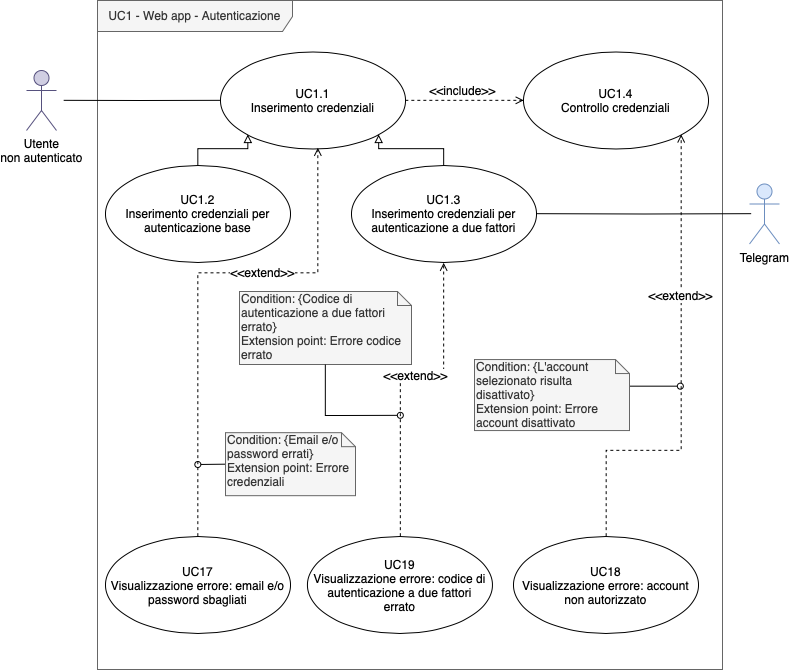
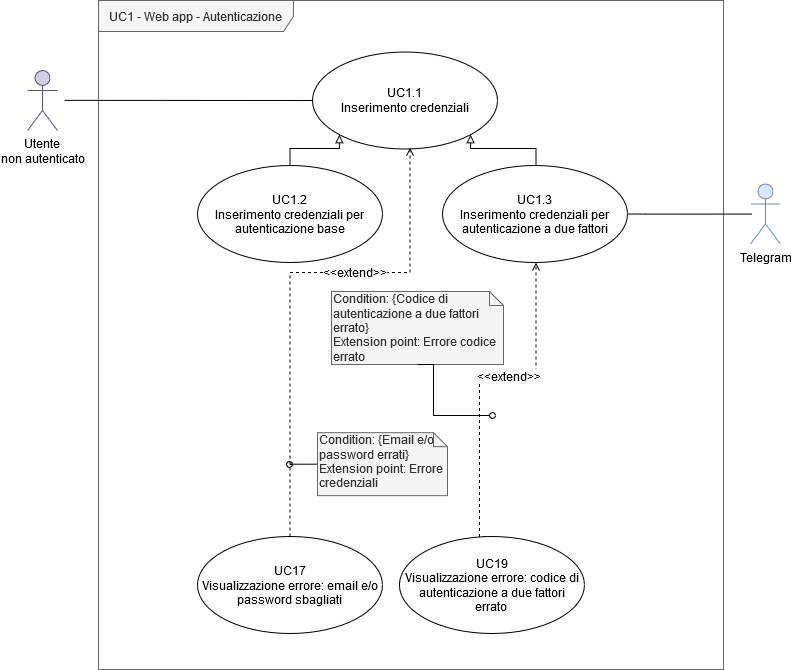
Fix casi d'uso
Sistemati alcuni errori di sintassi e grammaticali.
Rimosso ogni riferimento a UC 1.4 e riadattata l'estensione per UC 18.

diff --git a/esterni/analisi_requisiti/res/sections/Sez4-ClassificazioneRequisiti/ClassificazioneRequisiti.tex b/esterni/analisi_requisiti/res/sections/Sez4-ClassificazioneRequisiti/ClassificazioneRequisiti.tex
@@ -36,110 +36,110 @@ In questa parte, vengono riportati i requisiti del progetto, classificati per ti
         \endfoot
         \endlastfoot
 		% autenticazione
-		\req{A}{F}{1} 		& L'utente deve potersi autenticare per accedere alla web app & UC1 \autism
-		\sreq{A}{F}{1.1} 	& L'utente deve poter usufruire dell'autenticazione a due fattori & UC1.3, UC14, Interna \autism
-		\sreq{A}{F}{1.2} 	& L'utente deve poter ricevere un codice di autenticazione a due fattori tramite \glock{Telegram} & UC1.3.3, Interna, VE\_2020-01-03\_8.3 \autism
-		\req{A}{F}{2} 		& L'utente autenticato deve avere accesso alla web app e deve poter navigare al suo interno & UC1.4 \autism
+		\req{A}{F}{1} 		& L'utente deve potersi autenticare per accedere alla web app & UC 1 \autism
+		\sreq{A}{F}{1.1} 	& L'utente deve poter usufruire dell'autenticazione a due fattori & UC 1.3, UC 14, Interna \autism
+		\sreq{A}{F}{1.2} 	& L'utente deve poter ricevere un codice di autenticazione a due fattori tramite \glock{Telegram} & UC 1.3.3, Interna, VE\_2020-01-03\_8.3 \autism
+		\req{A}{F}{2} 		& L'utente autenticato deve avere accesso alla web app e deve poter navigare al suo interno & UC 1 \autism
 		% dashboard
-		\req{A}{F}{3} 		& L'utente autenticato deve avere accesso a una dashboard & UC2 \autism
-		\sreq{A}{F}{3.1}  	& La dashboard deve mettere a disposizione le informazioni dell'utente autenticato & UC2 \autism
-		\sreq{A}{F}{3.2}  	& La dashboard deve mettere a disposizione i contatti di supporto tecnico & UC2 \autism
-		\sreq{B}{F}{3.3}  	& La dashboard deve mettere a disposizione le statistiche generali del sistema & UC2 \autism
+		\req{A}{F}{3} 		& L'utente autenticato deve avere accesso a una dashboard & UC 2 \autism
+		\sreq{A}{F}{3.1}  	& La dashboard deve mettere a disposizione le informazioni dell'utente autenticato & UC 2 \autism
+		\sreq{A}{F}{3.2}  	& La dashboard deve mettere a disposizione i contatti di supporto tecnico & UC 2 \autism
+		\sreq{B}{F}{3.3}  	& La dashboard deve mettere a disposizione le statistiche generali del sistema & UC 2 \autism
 		% lista dispositivi
-		\req{A}{F}{4} 		& Il membro deve poter visualizzare i dispositivi autorizzati per il suo ente & UC5.1 \autism
-		\req{A}{F}{5} 		& Il moderatore ente deve poter visualizzare i dispositivi autorizzati per il suo ente & UC5.1 \autism
-		\req{A}{F}{6} 		& L'amministratore deve poter visualizzare i dispositivi censiti nel sistema & UC5.1 \autism
+		\req{A}{F}{4} 		& Il membro deve poter visualizzare i dispositivi autorizzati per il suo ente & UC 5.1 \autism
+		\req{A}{F}{5} 		& Il moderatore ente deve poter visualizzare i dispositivi autorizzati per il suo ente & UC 5.1 \autism
+		\req{A}{F}{6} 		& L'amministratore deve poter visualizzare i dispositivi censiti nel sistema & UC 5.1 \autism
 		% impostazioni
-		\req{A}{F}{7}  		& L'utente autenticato deve poter visualizzare le proprie impostazioni account & UC4 \autism
-		\req{A}{F}{8}  		& L'utente autenticato deve poter modificare le proprie impostazioni account & UC4.1, UC4.2 \autism
-		\sreq{A}{F}{8.1}  	& L'utente autenticato deve poter modificare la propria password & UC4.1 \autism
-		\sreq{A}{F}{8.2}  	& L'utente autenticato deve poter modificare la propria email & UC4.2.1 \autism
-		\sreq{A}{F}{8.3}  	& L'utente autenticato deve poter modificare il proprio username \glock{Telegram} & UC4.2.2 \autism
-		\sreq{B}{F}{8.4}  	& L'utente autenticato deve poter attivare l'autenticazione a due fattori tramite \glock{Telegram} & UC4.2.3 \autism
-		\sreq{B}{F}{8.5}  	& L'utente autenticato deve poter disattivare l'autenticazione a due fattori tramite \glock{Telegram} & UC4.2.3 \autism
-		\sreq{B}{F}{8.6}  	& L'utente autenticato deve poter modificare la preferenza di notifica di uno specifico alert, in base a quelli disponibili & UC4.3, VE\_2020-01-10\_9.2 \autism
+		\req{A}{F}{7}  		& L'utente autenticato deve poter visualizzare le proprie impostazioni account & UC 4 \autism
+		\req{A}{F}{8}  		& L'utente autenticato deve poter modificare le proprie impostazioni account & UC 4.1, UC 4.2 \autism
+		\sreq{A}{F}{8.1}  	& L'utente autenticato deve poter modificare la propria password & UC 4.1 \autism
+		\sreq{A}{F}{8.2}  	& L'utente autenticato deve poter modificare la propria email & UC 4.2.1 \autism
+		\sreq{A}{F}{8.3}  	& L'utente autenticato deve poter modificare il proprio username \glock{Telegram} & UC 4.2.2 \autism
+		\sreq{B}{F}{8.4}  	& L'utente autenticato deve poter attivare l'autenticazione a due fattori tramite \glock{Telegram} & UC 4.2.3 \autism
+		\sreq{B}{F}{8.5}  	& L'utente autenticato deve poter disattivare l'autenticazione a due fattori tramite \glock{Telegram} & UC 4.2.3 \autism
+		\sreq{B}{F}{8.6}  	& L'utente autenticato deve poter modificare la preferenza di notifica di uno specifico alert, in base a quelli disponibili & UC 4.3, VE\_2020-01-10\_9.2 \autism
 		% info dispositivi
-		\req{A}{F}{9} 		& Il membro e il moderatore ente devono poter visualizzare la lista dei sensori di un dispositivo abilitati al loro ente & UC5.2 \autism
-		\req{A}{F}{10} 		& L'amministratore deve poter visualizzare la lista completa dei sensori di un qualunque dispositivo censito nel sistema & UC5.8 \autism
-		\req{A}{F}{11}  	& Il membro e il moderatore ente devono poter visualizzare i dati in tempo reale di un sensore abilitato al loro ente & UC5.2 \autism
-		\sreq{B}{F}{11.1}   & Il membro e il moderatore ente possono visualizzare i dati di un sensore tramite un grafico & UC6.2 \autism
-		\req{A}{F}{12} 		& L'amministratore deve poter visualizzare i dati in tempo reale di tutti i sensori appartenenti a un dispositivo censito nel sistema & UC5.2, VE\_2020-01-10\_9.1 \autism
-		\sreq{B}{F}{12.1}   & L'amministratore deve poter visualizzare i dati di un sensore tramite un grafico & UC6.2, VE\_2020-01-10\_9.1 \autism
-		\req{A}{F}{13} 		& L'amministratore deve poter visualizzare a quali enti è stata autorizzata la lettura di un sensore & UC5.2 \autism
-		\req{A}{F}{14} 		& L'amministratore deve poter assegnare a un ente la lettura di un sensore di un qualunque dispositivo censito nel sistema & UC5.6 \autism
-		\req{A}{F}{15} 		& L'amministratore deve poter rimuovere da un ente la lettura di un sensore di un qualunque dispositivo censito nel sistema & UC5.7 \autism
+		\req{A}{F}{9} 		& Il membro e il moderatore ente devono poter visualizzare la lista dei sensori di un dispositivo abilitati al loro ente & UC 5.2 \autism
+		\req{A}{F}{10} 		& L'amministratore deve poter visualizzare la lista completa dei sensori di un qualunque dispositivo censito nel sistema & UC 5.8 \autism
+		\req{A}{F}{11}  	& Il membro e il moderatore ente devono poter visualizzare i dati in tempo reale di un sensore abilitato al loro ente & UC 5.2 \autism
+		\sreq{B}{F}{11.1}   & Il membro e il moderatore ente possono visualizzare i dati di un sensore tramite un grafico & UC 6.2 \autism
+		\req{A}{F}{12} 		& L'amministratore deve poter visualizzare i dati in tempo reale di tutti i sensori appartenenti a un dispositivo censito nel sistema & UC 5.2, VE\_2020-01-10\_9.1 \autism
+		\sreq{B}{F}{12.1}   & L'amministratore deve poter visualizzare i dati di un sensore tramite un grafico & UC 6.2, VE\_2020-01-10\_9.1 \autism
+		\req{A}{F}{13} 		& L'amministratore deve poter visualizzare a quali enti è stata autorizzata la lettura di un sensore & UC 5.2 \autism
+		\req{A}{F}{14} 		& L'amministratore deve poter assegnare a un ente la lettura di un sensore di un qualunque dispositivo censito nel sistema & UC 5.6 \autism
+		\req{A}{F}{15} 		& L'amministratore deve poter rimuovere da un ente la lettura di un sensore di un qualunque dispositivo censito nel sistema & UC 5.7 \autism
 		% lista membri mod
-		\req{A}{F}{16}  	& Un moderatore ente deve poter visualizzare la lista dei membri appartenenti al suo ente & UC7.1 \autism
-		\req{A}{F}{17}  	& Un moderatore ente deve poter visualizzare le informazioni di un membro appartenente al suo ente & UC7.3 \autism
-		\req{B}{F}{18} 		& Un moderatore ente deve poter modificare l'account di un membro appartenente al suo ente & UC7.4 \autism
-		\sreq{B}{F}{18.1}  	& Un moderatore ente deve poter modificare la email di un membro appartenente al suo ente & UC7.4.1 \autism
-		\sreq{B}{F}{18.2}  	& Un moderatore ente deve poter modificare il nome di un membro appartenente al suo ente & UC7.4.2 \autism
-		\sreq{B}{F}{18.3}  	& Un moderatore ente deve poter modificare il cognome di un membro appartenente al suo ente & UC7.4.3 \autism
-		\req{A}{F}{19} 		& Un moderatore ente deve poter rimuovere un membro appartenente al suo ente & UC7.5 \autism
-		\req{A}{F}{20} 		& Un moderatore ente deve poter creare un nuovo account per un nuovo membro che apparterrà solo al suo ente & UC7.2 \autism
+		\req{A}{F}{16}  	& Un moderatore ente deve poter visualizzare la lista dei membri appartenenti al suo ente & UC 7.1 \autism
+		\req{A}{F}{17}  	& Un moderatore ente deve poter visualizzare le informazioni di un membro appartenente al suo ente & UC 7.3 \autism
+		\req{B}{F}{18} 		& Un moderatore ente deve poter modificare l'account di un membro appartenente al suo ente & UC 7.4 \autism
+		\sreq{B}{F}{18.1}  	& Un moderatore ente deve poter modificare la email di un membro appartenente al suo ente & UC 7.4.1 \autism
+		\sreq{B}{F}{18.2}  	& Un moderatore ente deve poter modificare il nome di un membro appartenente al suo ente & UC 7.4.2 \autism
+		\sreq{B}{F}{18.3}  	& Un moderatore ente deve poter modificare il cognome di un membro appartenente al suo ente & UC 7.4.3 \autism
+		\req{A}{F}{19} 		& Un moderatore ente deve poter rimuovere un membro appartenente al suo ente & UC 7.5 \autism
+		\req{A}{F}{20} 		& Un moderatore ente deve poter creare un nuovo account per un nuovo membro che apparterrà solo al suo ente & UC 7.2 \autism
 		% lista membri admin
-		\req{A}{F}{21} 		& Un amministratore deve poter visualizzare la lista degli utenti registrati nel sistema & UC11.1 \autism
-		\req{A}{F}{22} 		& Un amministratore deve poter visualizzare le informazioni di un utente qualunque & UC11.3 \autism
-		\req{A}{F}{23} 		& Un amministratore deve poter disattivare un account di un utente qualunque & UC11.6 \autism
-		\req{B}{F}{24} 		& Un amministratore deve poter modificare le impostazioni di un utente qualunque & UC11.4 \autism
-		\sreq{B}{F}{24.1}	& Un amministratore deve poter modificare la email di un utente qualunque  & UC11.4.1 \autism
-		\sreq{B}{F}{24.2}  	& Un amministratore deve poter modificare il nome di un utente qualunque  & UC11.4.2 \autism
-		\sreq{B}{F}{24.3}  	& Un amministratore deve poter modificare il cognome di un utente qualunque  & UC11.4.3 \autism
-		\sreq{B}{F}{24.4}  	& Un amministratore deve poter modificare il lo username \glock{Telegram} di un utente qualunque & UC11.4.4 \autism
-		\sreq{B}{F}{24.5}  	& Un amministratore deve poter attivare l'autenticazione a due fattori tramite \glock{Telegram} di un utente qualunque & UC11.4.7 \autism
-		\sreq{B}{F}{24.6}  	& Un amministratore deve poter disattivare l'autenticazione a due fattori tramite \glock{Telegram} di un utente qualunque & UC11.4.7 \autism
-		\req{A}{F}{25}  	& Un amministratore deve poter riassegnare un membro o un moderatore ente a ente differente & UC11.4.5 \autism
-		\req{A}{F}{26} 		& Un amministratore deve poter resettare la password a un membro o a un moderatore ente & UC11.5 \autism
-		\req{A}{F}{27} 		& Un amministratore deve poter creare un account per un nuovo membro & UC11.2 \autism
+		\req{A}{F}{21} 		& Un amministratore deve poter visualizzare la lista degli utenti registrati nel sistema & UC 11.1 \autism
+		\req{A}{F}{22} 		& Un amministratore deve poter visualizzare le informazioni di un utente qualunque & UC 11.3 \autism
+		\req{A}{F}{23} 		& Un amministratore deve poter disattivare un account di un utente qualunque & UC 11.6 \autism
+		\req{B}{F}{24} 		& Un amministratore deve poter modificare le impostazioni di un utente qualunque & UC 11.4 \autism
+		\sreq{B}{F}{24.1}	& Un amministratore deve poter modificare la email di un utente qualunque  & UC 11.4.1 \autism
+		\sreq{B}{F}{24.2}  	& Un amministratore deve poter modificare il nome di un utente qualunque  & UC 11.4.2 \autism
+		\sreq{B}{F}{24.3}  	& Un amministratore deve poter modificare il cognome di un utente qualunque  & UC 11.4.3 \autism
+		\sreq{B}{F}{24.4}  	& Un amministratore deve poter modificare il lo username \glock{Telegram} di un utente qualunque & UC 11.4.4 \autism
+		\sreq{B}{F}{24.5}  	& Un amministratore deve poter attivare l'autenticazione a due fattori tramite \glock{Telegram} di un utente qualunque & UC 11.4.7 \autism
+		\sreq{B}{F}{24.6}  	& Un amministratore deve poter disattivare l'autenticazione a due fattori tramite \glock{Telegram} di un utente qualunque & UC 11.4.7 \autism
+		\req{A}{F}{25}  	& Un amministratore deve poter riassegnare un membro o un moderatore ente a ente differente & UC 11.4.5 \autism
+		\req{A}{F}{26} 		& Un amministratore deve poter resettare la password a un membro o a un moderatore ente & UC 11.5 \autism
+		\req{A}{F}{27} 		& Un amministratore deve poter creare un account per un nuovo membro & UC 11.2 \autism
 		% lista alert
-		\req{A}{F}{28} 		& Un moderatore ente deve poter visualizzare la lista degli alert attivi per il suo ente & UC8.1 \autism
-		\req{A}{F}{29} 		& Un moderatore ente deve poter aggiungere un alert di un particolare sensore per il suo ente & UC8.2 \autism
-		\req{A}{F}{30} 		& Un moderatore ente deve poter rimuovere un alert di un particolare sensore per il suo ente & UC8.3 \autism
-		\req{A}{F}{31} 		& Un amministratore deve poter visualizzare la lista degli alert attivi per tutti gli enti & UC12.1 \autism
-		\req{A}{F}{32} 		& Un amministratore deve poter rimuovere un alert di un particolare sensore & UC12.2 \autism
-		\req{A}{F}{33} 		& I membri e i moderatori ente devono poter ricevere notifiche \glock{Telegram} sulla base delle soglie impostate negli alert attivi per il loro ente & UC15.1 \autism
+		\req{A}{F}{28} 		& Un moderatore ente deve poter visualizzare la lista degli alert attivi per il suo ente & UC 8.1 \autism
+		\req{A}{F}{29} 		& Un moderatore ente deve poter aggiungere un alert di un particolare sensore per il suo ente & UC 8.2 \autism
+		\req{A}{F}{30} 		& Un moderatore ente deve poter rimuovere un alert di un particolare sensore per il suo ente & UC 8.3 \autism
+		\req{A}{F}{31} 		& Un amministratore deve poter visualizzare la lista degli alert attivi per tutti gli enti & UC 12.1 \autism
+		\req{A}{F}{32} 		& Un amministratore deve poter rimuovere un alert di un particolare sensore & UC 12.2 \autism
+		\req{A}{F}{33} 		& I membri e i moderatori ente devono poter ricevere notifiche \glock{Telegram} sulla base delle soglie impostate negli alert attivi per il loro ente & UC 15.1 \autism
 		% logout
-		\req{A}{F}{34} 		& L'utente autenticato deve poter eseguire il logout dalla web app & UC3 \autism
+		\req{A}{F}{34} 		& L'utente autenticato deve poter eseguire il logout dalla web app & UC 3 \autism
 		% view page
-		\req{A}{F}{35} 		& L'utente autenticato deve poter visualizzare la lista delle proprie pagine \textit{View} & UC6.1 \autism
-		\req{A}{F}{36} 		& L'utente autenticato deve poter creare delle proprie pagine \textit{View} & UC6.3 \autism
-		\req{A}{F}{37} 		& L'utente autenticato deve poter cancellare le proprie pagine \textit{View} & UC6.4 \autism
-		\req{A}{F}{38} 		& L'utente autenticato deve poter aggiungere grafici in una propria pagina \textit{View} & UC6.5 \autism
-		\req{A}{F}{39} 		& L'utente autenticato deve poter visualizzare due dati in un grafico inserito in una propria pagina \textit{View} & UC6.5, UC6.2 \autism
-		\sreq{A}{F}{39.1} 	& I grafici nelle pagine \textit{View} devono permettere di visualizzare almeno una correlazione tra due dati & UC6.5 \autism
-		\sreq{B}{F}{39.2} 	& I grafici nelle pagine \textit{View} devono permettere di visualizzare almeno tre correlazioni tra due dati & UC6.5 \autism
-		\req{A}{F}{40} 		& L'utente autenticato deve poter cancellare grafici da una propria pagina \textit{View} & UC6.6 \autism
+		\req{A}{F}{35} 		& L'utente autenticato deve poter visualizzare la lista delle proprie pagine \textit{View} & UC 6.1 \autism
+		\req{A}{F}{36} 		& L'utente autenticato deve poter creare delle proprie pagine \textit{View} & UC 6.3 \autism
+		\req{A}{F}{37} 		& L'utente autenticato deve poter cancellare le proprie pagine \textit{View} & UC 6.4 \autism
+		\req{A}{F}{38} 		& L'utente autenticato deve poter aggiungere grafici in una propria pagina \textit{View} & UC 6.5 \autism
+		\req{A}{F}{39} 		& L'utente autenticato deve poter visualizzare due dati in un grafico inserito in una propria pagina \textit{View} & UC 6.5, UC 6.2 \autism
+		\sreq{A}{F}{39.1} 	& I grafici nelle pagine \textit{View} devono permettere di visualizzare almeno una correlazione tra due dati & UC 6.5 \autism
+		\sreq{B}{F}{39.2} 	& I grafici nelle pagine \textit{View} devono permettere di visualizzare almeno tre correlazioni tra due dati & UC 6.5 \autism
+		\req{A}{F}{40} 		& L'utente autenticato deve poter cancellare grafici da una propria pagina \textit{View} & UC 6.6 \autism
 		% logs
-		\req{C}{F}{41}  	& Il moderatore ente deve poter visualizzare la lista logs degli utenti del suo ente & UC9 \autism
-		\req{C}{F}{42}  	& L'amministratore deve poter visualizzare la lista logs degli utenti di sistema & UC13 \autism
+		\req{C}{F}{41}  	& Il moderatore ente deve poter visualizzare la lista logs degli utenti del suo ente & UC 9 \autism
+		\req{C}{F}{42}  	& L'amministratore deve poter visualizzare la lista logs degli utenti di sistema & UC 13 \autism
 		% input e comandi
-		\req{A}{F}{43}  	& Il moderatore ente deve poter visualizzare la lista dispositivi autorizzati all'invio dei comandi & UC16.4 \autism
-		\req{A}{F}{44}  	& Il moderatore ente deve poter inviare comandi ai singoli dispositivi autorizzati per il loro ente & UC16.5.5 \autism
-		\sreq{B}{F}{44.1} 	& L'invio dei comandi deve avvenire tramite un bot \glock{Telegram} & UC16.5.5 \autism
+		\req{A}{F}{43}  	& Il moderatore ente deve poter visualizzare la lista dispositivi autorizzati all'invio dei comandi & UC 16.4 \autism
+		\req{A}{F}{44}  	& Il moderatore ente deve poter inviare comandi ai singoli dispositivi autorizzati per il loro ente & UC 16.5.5 \autism
+		\sreq{B}{F}{44.1} 	& L'invio dei comandi deve avvenire tramite un bot \glock{Telegram} & UC 16.5.5 \autism
 		% configurazione
-		\req{A}{F}{45} 		& Un amministratore deve poter visualizzare la configurazione dei dispositivi censiti nel sistema & UC5.2 \autism
-		\req{A}{F}{46}  	& Un amministratore deve poter censire un nuovo dispositivo & UC5.3 \autism
-		\req{A}{F}{47}  	& Un amministratore deve poter decidere quali dati ricevere da un dispositivo & UC5.3.4 \autism
-		\req{A}{F}{48}  	& Un amministratore deve poter decidere con quale frequenza ricevere i dati di un dispositivo & UC5.3.3, VE\_2020-01-10\_9.3 \autism
-		\req{A}{F}{49}  	& Un amministratore deve poter rimuovere un dispositivo censito & UC5.5 \autism
-		\req{A}{F}{50}  	& Un amministratore deve poter modificare le configurazione di un dispositivo già censito & UC5.4 \autism
+		\req{A}{F}{45} 		& Un amministratore deve poter visualizzare la configurazione dei dispositivi censiti nel sistema & UC 5.2 \autism
+		\req{A}{F}{46}  	& Un amministratore deve poter censire un nuovo dispositivo & UC 5.3 \autism
+		\req{A}{F}{47}  	& Un amministratore deve poter decidere quali dati ricevere da un dispositivo & UC 5.3.4 \autism
+		\req{A}{F}{48}  	& Un amministratore deve poter decidere con quale frequenza ricevere i dati di un dispositivo & UC 5.3.3, VE\_2020-01-10\_9.3 \autism
+		\req{A}{F}{49}  	& Un amministratore deve poter rimuovere un dispositivo censito & UC 5.5 \autism
+		\req{A}{F}{50}  	& Un amministratore deve poter modificare le configurazione di un dispositivo già censito & UC 5.4 \autism
 		\hline
 		% sistema
 		\req{A}{F}{51} 		& Il sistema deve rimuovere automaticamente gli alert attivi di un dispositivo non più censito  & Interna, VE\_2020-01-10\_9.4 \autism
 		\req{A}{F}{52} 		& Il sistema deve rimuovere automaticamente i sensori dei dispositivi autorizzati agli enti che non sono più esistenti & Interna, VE\_2020-01-10\_9.4 \autism
 		\req{A}{F}{53} 		& Il sistema deve rimuovere automaticamente i grafici creati dagli utenti nella pagina \textit{View} se viene rimosso un sensore dal sistema & Interna \autism
 		\req{A}{F}{54} 		& Il sistema deve disattivare automaticamente gli utenti che fanno parte di un ente, qualora l'ente venga disabilitato da un amministratore & Interna, VE\_2020-01-10\_9.4 \autism
-		\req{A}{F}{55} 		& Un amministratore deve poter creare un nuovo ente & UC10.3 \autism
-		\req{A}{F}{56} 		& Un amministratore deve poter modificare le informazioni di un ente esistente & UC10.4 \autism
-		\req{A}{F}{57} 		& Un amministratore deve poter disattivare un ente & UC10.5, VE\_2020-01-10\_9.4 \autism
-		\req{A}{F}{58} 		& Un amministratore deve poter visualizzare gli enti attivi nel sistema & UC10.1 \autism
+		\req{A}{F}{55} 		& Un amministratore deve poter creare un nuovo ente & UC 10.3 \autism
+		\req{A}{F}{56} 		& Un amministratore deve poter modificare le informazioni di un ente esistente & UC 10.4 \autism
+		\req{A}{F}{57} 		& Un amministratore deve poter disattivare un ente & UC 10.5, VE\_2020-01-10\_9.4 \autism
+		\req{A}{F}{58} 		& Un amministratore deve poter visualizzare gli enti attivi nel sistema & UC 10.1 \autism
 		\req{A}{F}{59} 		& Il sistema deve disattivare automaticamente gli alert attivi per un utente, qualora l'utente venga disattivato & Interna, VE\_2020-01-10\_9.4 \autism
-		\req{A}{F}{60} 		& Il sistema non deve permettere l'accesso a utenti non amministratori che non fanno parte di un ente & UC18, UC1.4 \autism
-		\req{A}{F}{61} 		& Il sistema non deve permettere l'accesso a utenti disattivati & UC18, UC1.4 \autism
+		\req{A}{F}{60} 		& Il sistema non deve permettere l'accesso a utenti non amministratori che non fanno parte di un ente & UC 18 \autism
+		\req{A}{F}{61} 		& Il sistema non deve permettere l'accesso a utenti disattivati & UC 18 \autism
 		\req{A}{F}{62} 		& Il sistema non deve permettere notifica degli alert agli utenti disattivati & Interna, VE\_2020-01-10\_9.4 \autism
-		\req{A}{F}{63} 		& Il sistema deve permettere notifica degli alert in base alle preferenze indicate nelle impostazioni di un utente & UC15.1, UC4.3 \autism
+		\req{A}{F}{63} 		& Il sistema deve permettere notifica degli alert in base alle preferenze indicate nelle impostazioni di un utente & UC 15.1, UC 4.3 \autism
 		\req{A}{F}{64}  	& I dati usati nel sistema devono essere salvati all'interno di una base di dati & Capitolato \autism
-		\sreq{A}{F}{64.1} 	& I dati ricevuti dai gateway e usati per la creazione dei grafici vanno salvati all'interno di un time-series database (non relazionale) & Capitolato \autism
+		\sreq{A}{F}{64.1} 	& I dati ricevuti dai gateway e usati per la creazione dei grafici vanno salvati all'interno di un time series database (non relazionale) & Capitolato \autism
 		\sreq{A}{F}{64.2} 	& I dati utilizzati per gli account utenti devono essere salvati in un database relazionale. & Capitolato \autism
 		% API
 		\req{A}{F}{65} 		& Le applicazioni che vogliono utilizzare il sistema devono interfacciarsi tramite delle \glock{API} che si mettono in comunicazione con \glock{Kafka} & Capitolato \autism
@@ -242,7 +242,7 @@ In questa parte, vengono riportati i requisiti del progetto, classificati per ti
 		\req{A}{V}{1} 		& Le istanze del sistema dovranno essere gestite tramite \glock{Docker} & Interna \autism
 		\req{A}{V}{2} 		& La ricezione degli alert deve avvenire attraverso un bot \glock{Telegram} & Capitolato \autism
 		\req{A}{V}{3} 		& Il sistema deve fare uso dell'ecosistema \glock{Kafka} & Capitolato \autism
-		\req{A}{V}{4} 		& Il sistema deve fare uso di un time-series database (TimescaleDB) & Capitolato \autism
+		\req{A}{V}{4} 		& Il sistema deve fare uso di un time series database (TimescaleDB) & Capitolato \autism
 		\req{A}{V}{5} 		& Il sistema deve fare uso di un protocollo per comunicare con il \glock{Gatweay} & Capitolato \autism
 		\req{A}{V}{6} 		& Il sistema deve fare uso di \glock{API} per la comunicazione con le applicazioni & Capitolato \autism
 		% SPOSTAMENTO DA REQUISITI PRESTAZIONALI

diff --git a/esterni/analisi_requisiti/res/sections/Sez3-CasiDUso/CasiDUso.tex b/esterni/analisi_requisiti/res/sections/Sez3-CasiDUso/CasiDUso.tex
@@ -118,7 +118,7 @@
 			\end{enumerate}	
 		\end{itemize}
 
-		\subsection{UC 9.1 - Visualizzazione informazioni log membro}
+		\subsubsection{UC 9.1 - Visualizzazione informazioni log membro}
 			\begin{itemize}
 			\item \textbf{attori primari:} Moderatore ente;
 			\item \textbf{descrizione:} l'utente visualizza una entry composta da nome, cognome, azione, data-ora ed indirizzo IP di un membro appartenente al proprio ente. Le azioni sotto audit sono le seguenti: 
@@ -171,7 +171,7 @@
 			\end{enumerate}	
 		\end{itemize}
 
-		\subsection{UC 13.1 - Amministrazione - Visualizzazione informazioni log utente}
+		\subsubsection{UC 13.1 - Amministrazione - Visualizzazione informazioni log utente}
 		\begin{itemize}
 			\item \textbf{attori primari:} Amministratore;
 			\item \textbf{descrizione:} l'utente visualizza una entry composta da nome, cognome, azione, data-ora, indirizzo IP, ente e rank degli utenti presenti all'interno del sistema. Le azioni sotto audit sono le seguenti: 

diff --git a/esterni/analisi_requisiti/res/sections/Sez3-CasiDUso/uc6.tex b/esterni/analisi_requisiti/res/sections/Sez3-CasiDUso/uc6.tex
@@ -21,7 +21,7 @@
 			\subsubsection{UC 6.1 - Visualizzazione lista pagine view}
 			\begin{itemize}
 				\item \textbf{attori primari:} Utente autenticato;
-				\item \textbf{descrizione:} l'utente può visualizzare una lista con i nomi dele proprie \glock{view} create fino a quel momento;
+				\item \textbf{descrizione:} l'utente può visualizzare una lista con i nomi delle proprie \glock{view} create fino a quel momento;
 				\item \textbf{precondizione:} l'utente naviga all'interno delle proprie \glock{view};
 				\item \textbf{postcondizione:} l'utente ha visualizzato le proprie \glock{view};
 				\item \textbf{scenario principale:}

diff --git a/esterni/analisi_requisiti/res/sections/Sez3-CasiDUso/uc1.tex b/esterni/analisi_requisiti/res/sections/Sez3-CasiDUso/uc1.tex
@@ -1,4 +1,4 @@
-	\subsection{UC1 - Web App - Autenticazione}
+	\subsection{UC 1 - Web App - Autenticazione}
 		
 	\begin{figure}[H]
 		\centering
@@ -15,8 +15,11 @@
 		\item \textbf{scenario principale:}
 		\begin{enumerate}
 			\item l'utente inserisce le proprie credenziali (UC 1.1);
-			\item viene eseguito il controllo delle credenziali inserite (UC 1.4).
 		\end{enumerate}
+		\item \textbf{estensioni:}
+		\begin{itemize}
+			\item Visualizzazione errore: account non autorizzato (UC 18).
+		\end{itemize}
 	\end{itemize}
 	
 

diff --git a/esterni/analisi_requisiti/res/sections/Sez3-CasiDUso/uc14.tex b/esterni/analisi_requisiti/res/sections/Sez3-CasiDUso/uc14.tex
@@ -1,4 +1,4 @@
-\subsection{UC14 - Telegram - Autenticazione}
+\subsection{UC 14 - Telegram - Autenticazione}
 		
 	\begin{figure}[H]
 		\centering

diff --git a/esterni/analisi_requisiti/res/sections/Sez3-CasiDUso/uc15.tex b/esterni/analisi_requisiti/res/sections/Sez3-CasiDUso/uc15.tex
@@ -1,4 +1,4 @@
-\subsection{UC15 - Telegram - Notifiche push}
+\subsection{UC 15 - Telegram - Notifiche push}
 
 	\begin{figure}[H]
 		\centering

diff --git a/esterni/analisi_requisiti/res/sections/Sez3-CasiDUso/uc16.tex b/esterni/analisi_requisiti/res/sections/Sez3-CasiDUso/uc16.tex
@@ -1,4 +1,4 @@
-\subsection{UC16 - Telegram - Interazioni}
+\subsection{UC 16 - Telegram - Interazioni}
 		
 	\begin{figure}[H]
 		\centering
